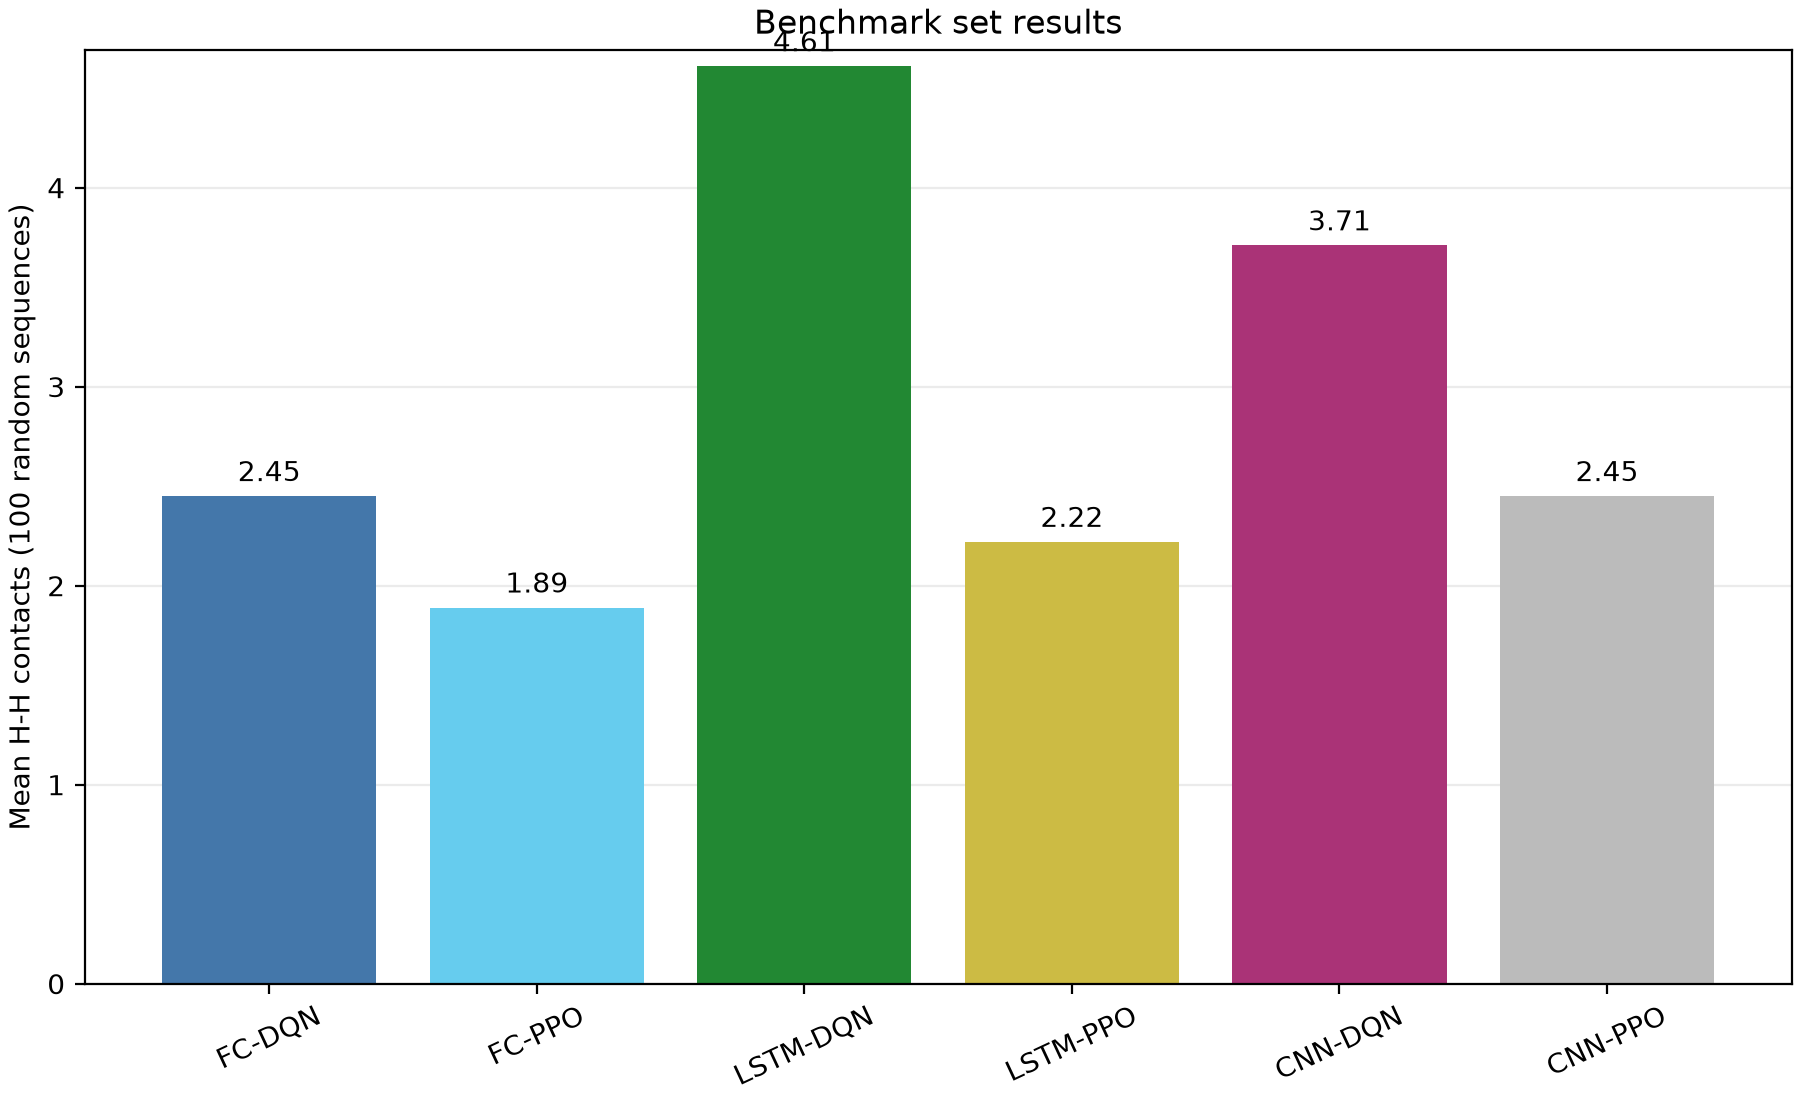
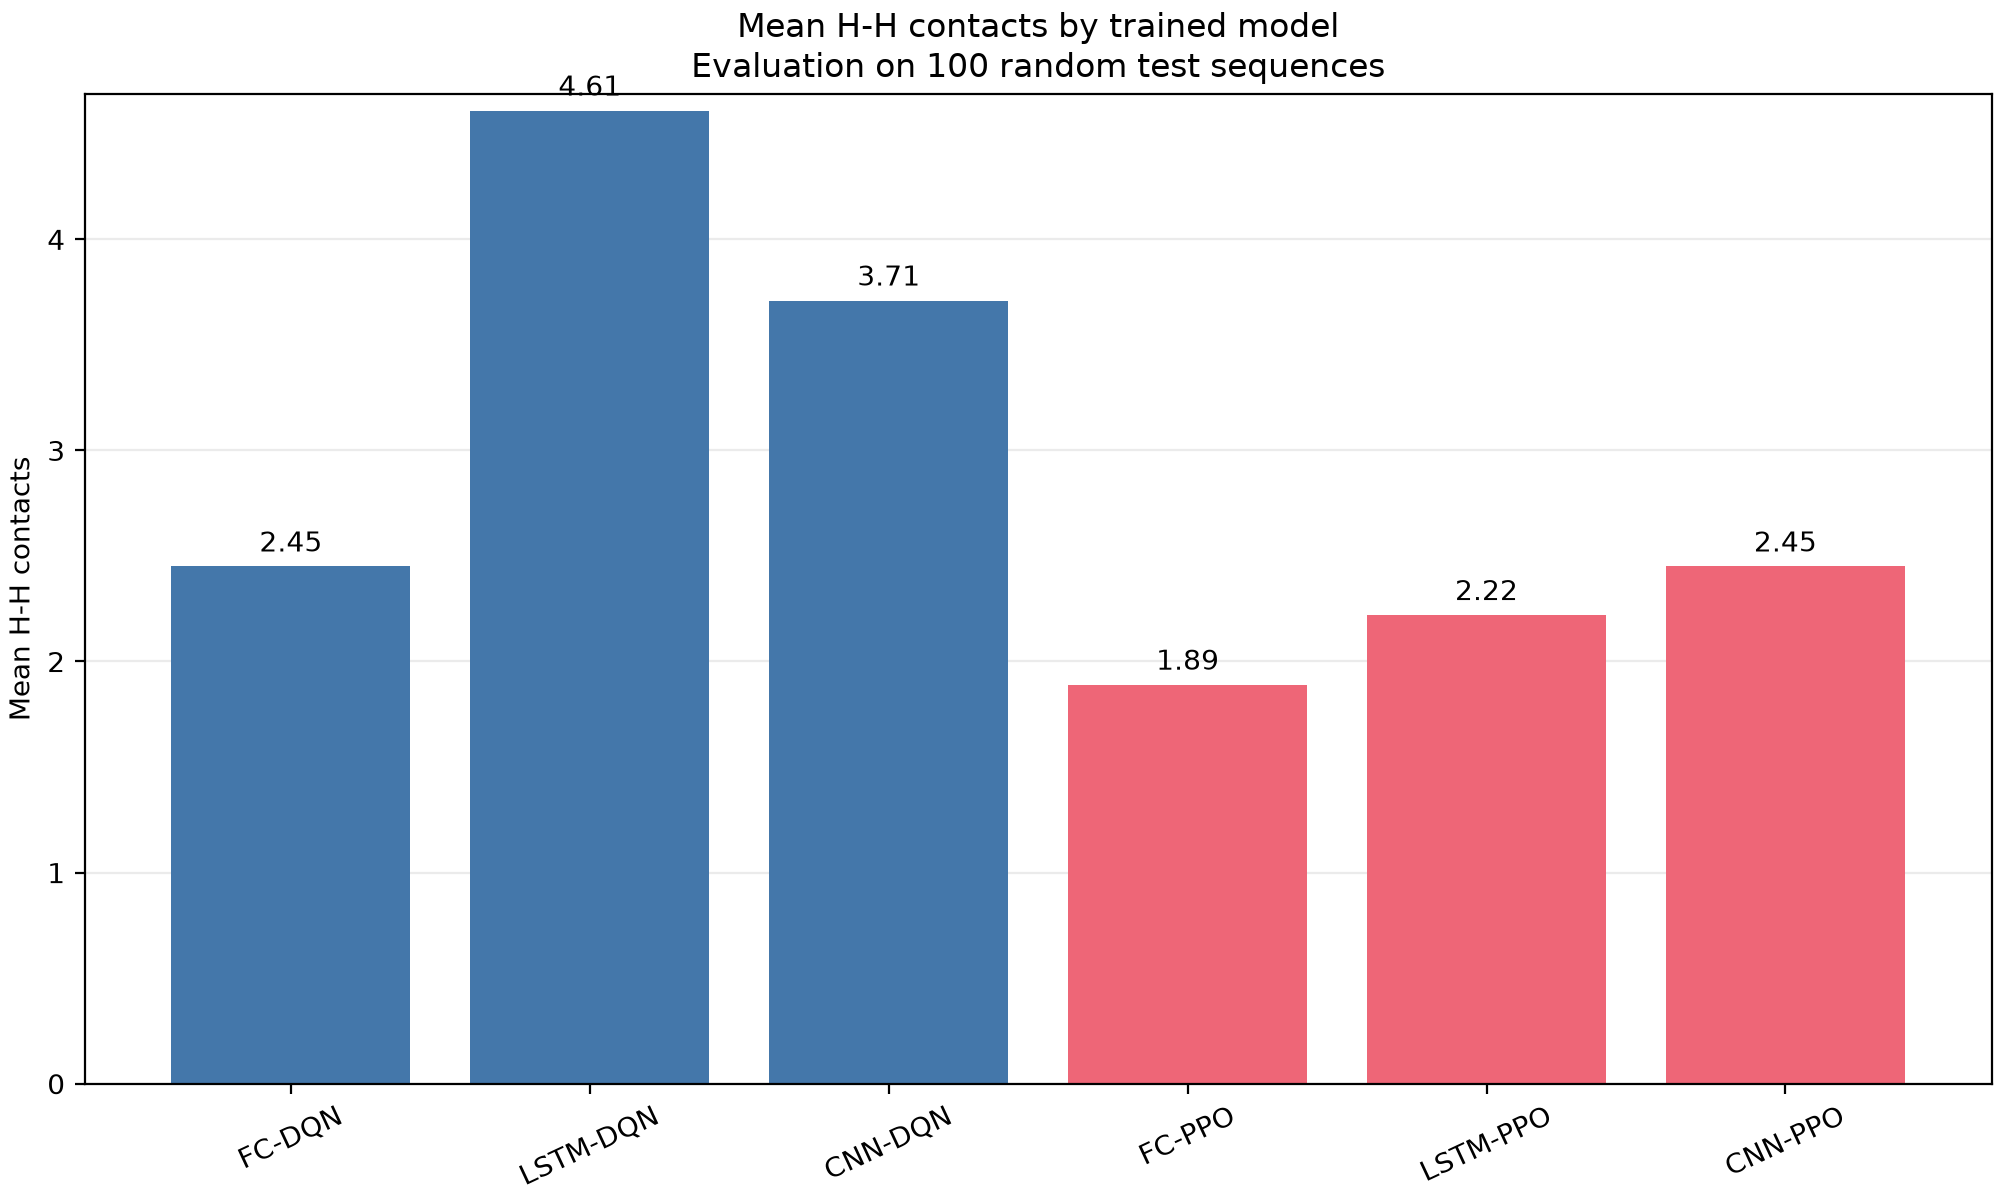
chart updates 2

diff --git a/Combined/generate_latest_charts.py b/Combined/generate_latest_charts.py
@@ -15,6 +15,8 @@ from tensorboard.backend.event_processing.event_accumulator import EventAccumula
 
 from Combined.train import _make_env
 from Oliver.envs import count_contacts, get_lattice_env
+import mcts
+import simulated_annealing
 
 
 ROOT = Path(__file__).resolve().parents[1]
@@ -23,6 +25,12 @@ SA_RESULTS = ROOT / "solver_results" / "100k_simulated_annealing" / (
     "simulated_annealing_results.csv"
 )
 OUTPUT_DIR = ROOT / "Combined" / "results" / "latest_run"
+SA_BENCHMARK_RESULTS = OUTPUT_DIR / "simulated_annealing_benchmark_results.csv"
+SA_TIME_BUDGET_MS = 10.0
+SA_RUNS = 2
+SA_FIRST_SEED = 7
+DQN_COLOR = "#4477aa"
+PPO_COLOR = "#ee6677"
 MODEL_PAIRS = [
     ("fc", "dqn", "FC-DQN", "#4477aa"),
     ("fc", "ppo", "FC-PPO", "#66ccee"),
@@ -112,7 +120,8 @@ def plot_training_curves(output_path: Path) -> None:
 
 
 def plot_final_comparison(
-    summary_rows: list[dict[str, str]], output_path: Path
+    summary_rows: list[dict[str, str]],
+    output_path: Path,
 ) -> None:
     rows_by_pair = {
         (row["network"], row["algorithm"]): row for row in summary_rows
@@ -120,24 +129,89 @@ def plot_final_comparison(
     if len(rows_by_pair) != len(MODEL_PAIRS):
         raise ValueError("Expected one final result row for each of the six pairs")
 
-    labels = [label for _, _, label, _ in MODEL_PAIRS]
-    colors = [color for _, _, _, color in MODEL_PAIRS]
+    comparison_pairs = [
+        pair for algorithm in ("dqn", "ppo")
+        for pair in MODEL_PAIRS
+        if pair[1] == algorithm
+    ]
+    labels = [label for _, _, label, _ in comparison_pairs]
+    colors = [
+        DQN_COLOR if algorithm == "dqn" else PPO_COLOR
+        for _, algorithm, _, _ in comparison_pairs
+    ]
     contacts = [
         float(rows_by_pair[(network, algorithm)]["mean_contacts"])
-        for network, algorithm, _, _ in MODEL_PAIRS
+        for network, algorithm, _, _ in comparison_pairs
     ]
 
-    figure, axis = plt.subplots(figsize=(9, 5.5), layout="constrained")
+    figure, axis = plt.subplots(figsize=(10, 6), layout="constrained")
     bars = axis.bar(labels, contacts, color=colors)
     axis.bar_label(bars, fmt="%.2f", padding=3)
-    axis.set_title("Benchmark set results")
-    axis.set_ylabel("Mean H-H contacts (100 random sequences)")
+    axis.set_title(
+        "Mean H-H contacts by trained model\n"
+        "Evaluation on 100 random test sequences"
+    )
+    axis.set_ylabel("Mean H-H contacts")
     axis.set_ylim(0, max(contacts, default=0) + 0.08)
     axis.tick_params(axis="x", rotation=25)
     axis.grid(axis="y", alpha=0.25)
     axis.set_axisbelow(True)
     figure.savefig(output_path, dpi=200)
     plt.close(figure)
+
+
+def run_simulated_annealing_benchmark() -> list[dict[str, str]]:
+    """Run each fixed benchmark sequence twice with a 10 ms wall-clock budget."""
+    benchmark = mcts.load_benchmark(ROOT / "benchmark.txt")
+    rows = []
+    for name, sequence, reference_energy in benchmark:
+        for run in range(SA_RUNS):
+            seed = SA_FIRST_SEED + run
+            start = time.perf_counter()
+            contacts, coords = simulated_annealing.search(
+                sequence,
+                time_budget_seconds=SA_TIME_BUDGET_MS / 1_000,
+                seed=seed,
+            )
+            elapsed = time.perf_counter() - start
+            if len(coords) != len(sequence):
+                raise ValueError(
+                    f"Simulated annealing returned an incomplete fold for {name}"
+                )
+            rows.append(
+                {
+                    "name": name,
+                    "sequence": sequence,
+                    "run": str(run + 1),
+                    "time_budget_ms": f"{SA_TIME_BUDGET_MS:g}",
+                    "seed": str(seed),
+                    "contacts": str(contacts),
+                    "energy": str(-contacts),
+                    "complete": "True",
+                    "elapsed_seconds": f"{elapsed:.6f}",
+                    "reference_energy": (
+                        str(reference_energy) if reference_energy is not None else ""
+                    ),
+                    "meets_reference": (
+                        str(-contacts <= reference_energy)
+                        if reference_energy is not None
+                        else ""
+                    ),
+                    "moves": simulated_annealing.coordinates_to_moves(coords),
+                }
+            )
+            print(
+                f"{name} run={run + 1}/{SA_RUNS}: "
+                f"contacts={contacts}, time={elapsed * 1_000:.3f} ms",
+                flush=True,
+            )
+
+    SA_BENCHMARK_RESULTS.parent.mkdir(parents=True, exist_ok=True)
+    with SA_BENCHMARK_RESULTS.open("w", newline="", encoding="utf-8") as csv_file:
+        writer = csv.DictWriter(csv_file, fieldnames=list(rows[0]))
+        writer.writeheader()
+        writer.writerows(rows)
+    return rows
 
 
 def benchmark_20mer_rows(
@@ -470,6 +544,7 @@ def plot_agent_vs_annealing(
 def main() -> None:
     OUTPUT_DIR.mkdir(parents=True, exist_ok=True)
     summary_rows = load_latest_summary_rows()
+    run_simulated_annealing_benchmark()
     plot_training_curves(OUTPUT_DIR / "training_reward_eval_curves.png")
     plot_final_comparison(
         summary_rows, OUTPUT_DIR / "final_test_comparison.png"
